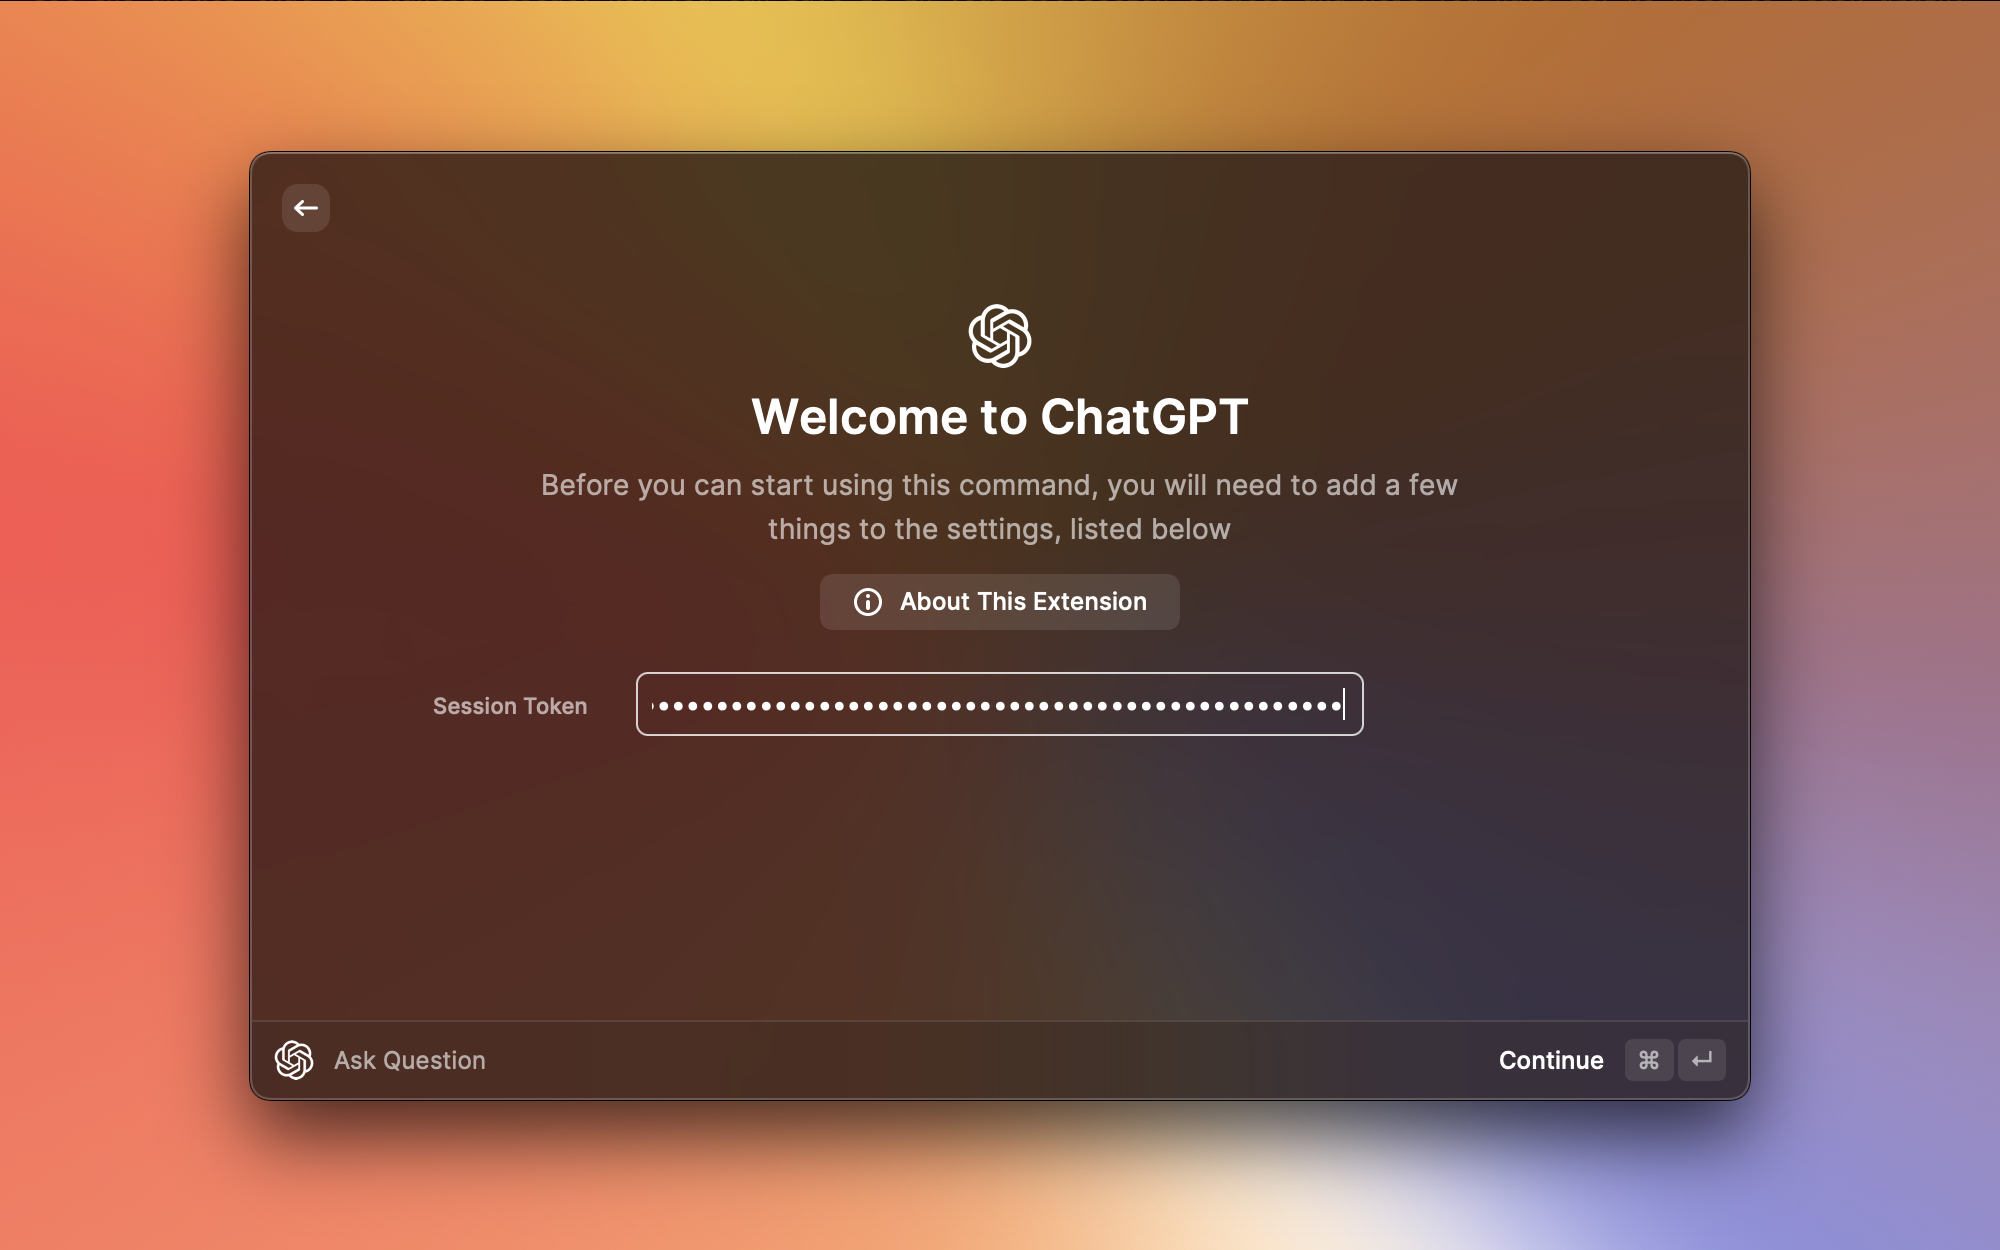
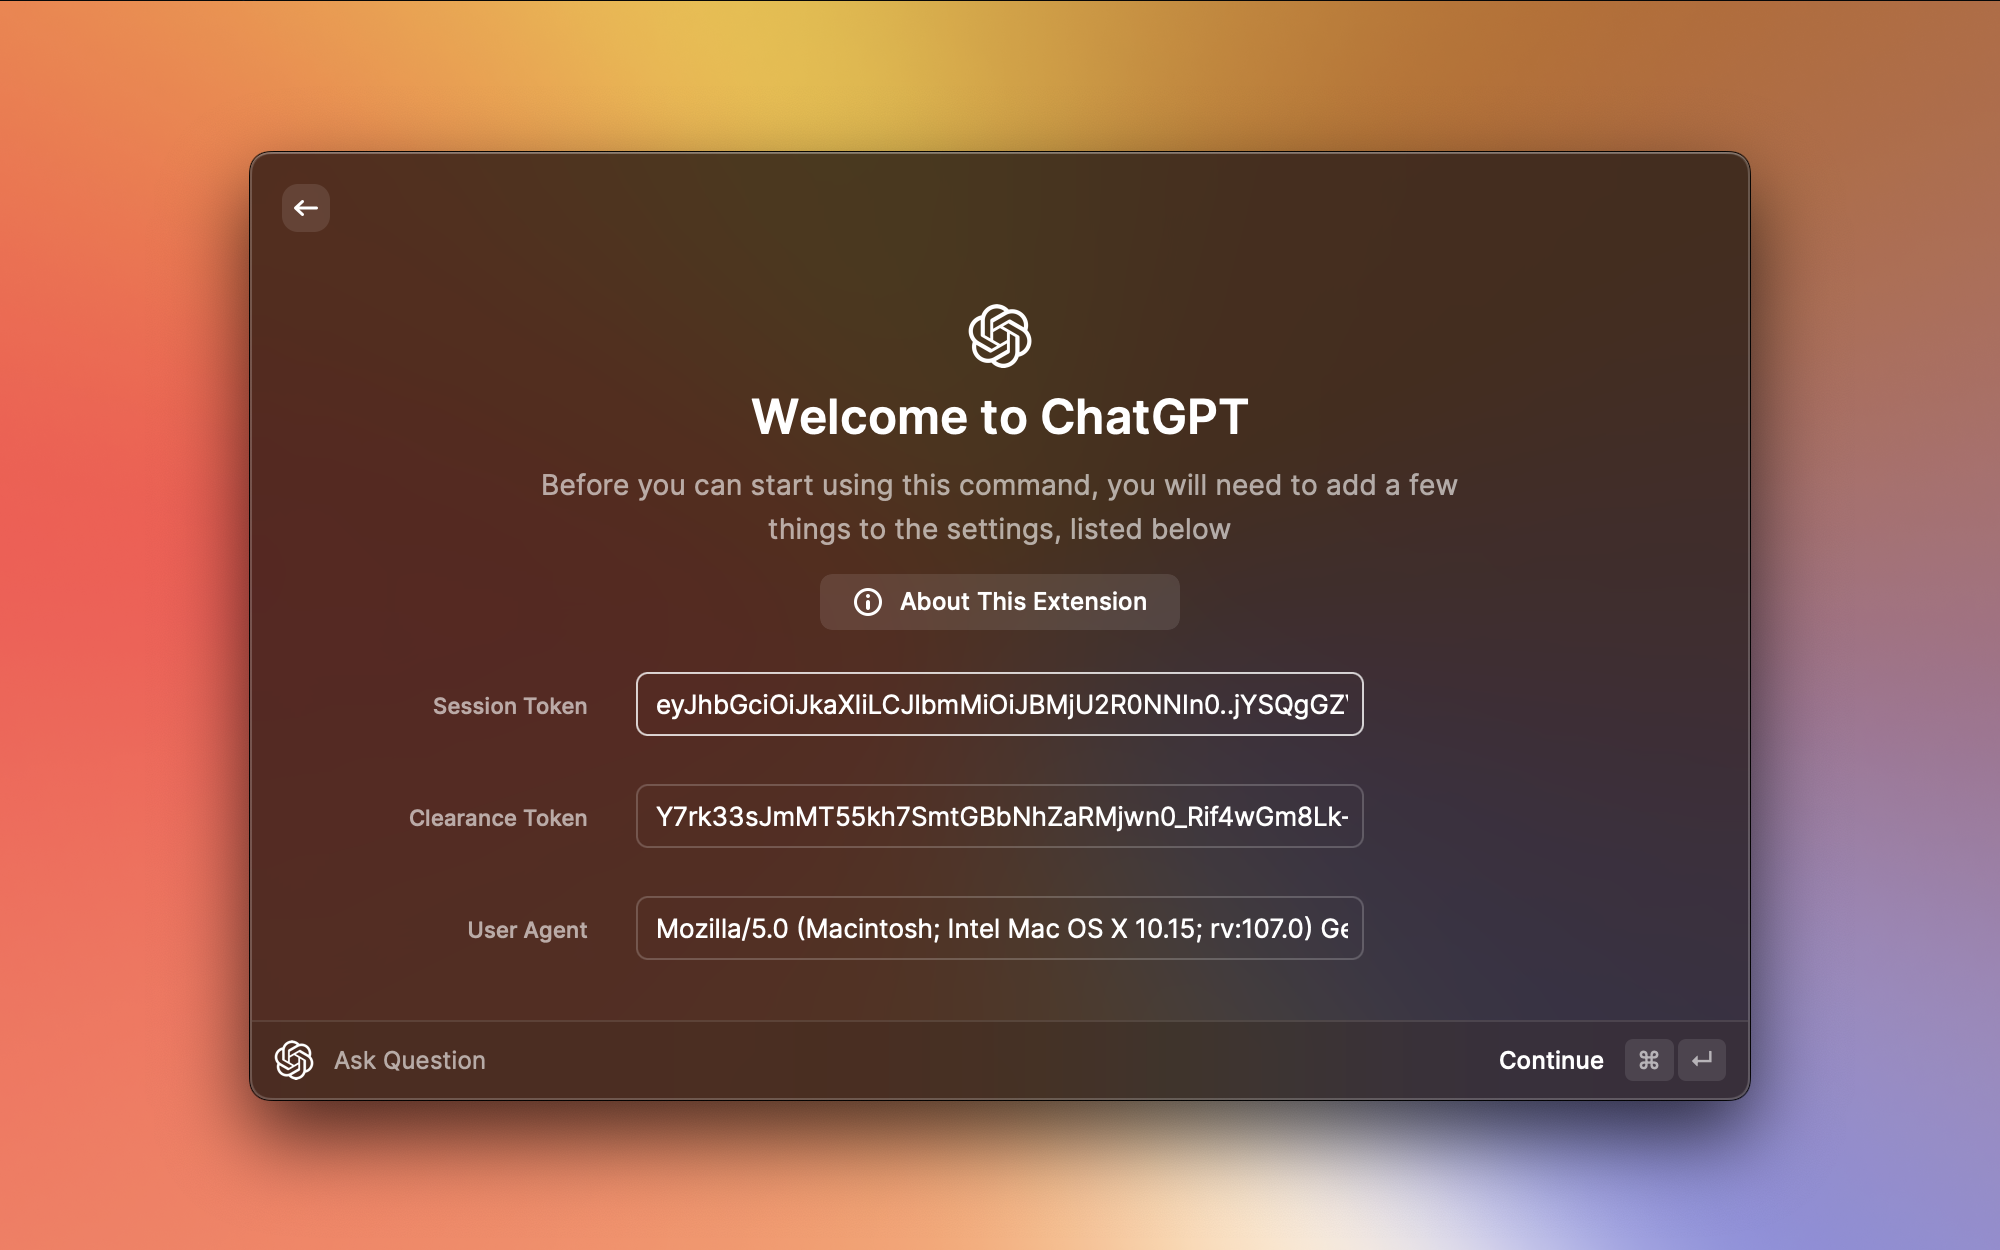
docs: update

diff --git a/README.md b/README.md
@@ -38,7 +38,7 @@ Automatically save all the asked questions and its generated answer locally, so 
 
 # How to use
 
-This package requires a valid session token from ChatGPT to access it's unofficial REST API by [transitive-bullshit/chatgpt-api](https://github.com/transitive-bullshit/chatgpt-api).
+This package requires a valid `Session Token` from ChatGPT to access it's unofficial REST API by [transitive-bullshit/chatgpt-api](https://github.com/transitive-bullshit/chatgpt-api).
 
 To get a session token:
 
@@ -48,11 +48,34 @@ To get a session token:
 
    ![ChatGPT cookies](https://github.com/transitive-bullshit/chatgpt-api/blob/main/media/session-token.png?raw=true)
 
-4. Copy the value for `__Secure-next-auth.session-token` and paste in the initialization set-up!
+4. Copy the value of `__Secure-next-auth.session-token` and paste it in the `Session Token` initialization set-up field!
 
-![Looking through the question history](/metadata/6.png)
+### Update December 11, 2022
 
-> Session token will be stored locally using [Preferences API](https://developers.raycast.com/api-reference/preferences)
+> An update note from [the API author](https://github.com/transitive-bullshit/chatgpt-api)
+
+Today, OpenAI added additional Cloudflare protections that make it more difficult to access the unofficial API. Here's some additional steps that you need to follow:
+
+5. Copy the value of the `cf_clearance` cookie and paste it in the `Clearance Token` initialization set-up field.
+
+![ChatGPT user agent](media/clearance.png)
+
+6. Copy your browser's `user-agent` header from any request in your browser's network tab and paste it in the `User Agent` initialization set-up field.
+
+![ChatGPT user agent](media/user-agent.png)
+
+Restrictions on this method:
+
+- Cloudflare `cf_clearance` **tokens expire after 2 hours**, so there will be a pop-up reminder to update your token if you had an invalid token value.
+- Your `user-agent` and `IP address` **must match** from the real browser window you're logged in with to the one you're using for the extension.
+  - This means that you currently can't log in with your laptop and then run the extension in the same time.
+- You should not be using this account while the extension is already running, because that browser window may refresh one of your tokens and invalidate the extension's session.
+
+# Initialization set-up
+
+![Initial set-up](metadata/6.png)
+
+> All the preferences value will be stored locally using [Preferences API](https://developers.raycast.com/api-reference/preferences)
 
 ---
 
